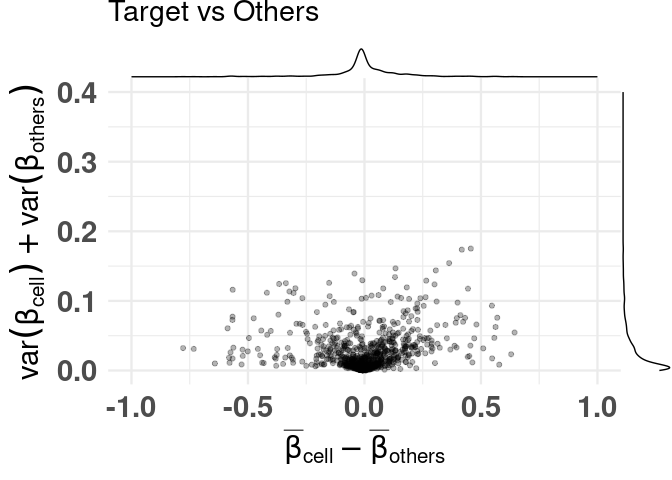
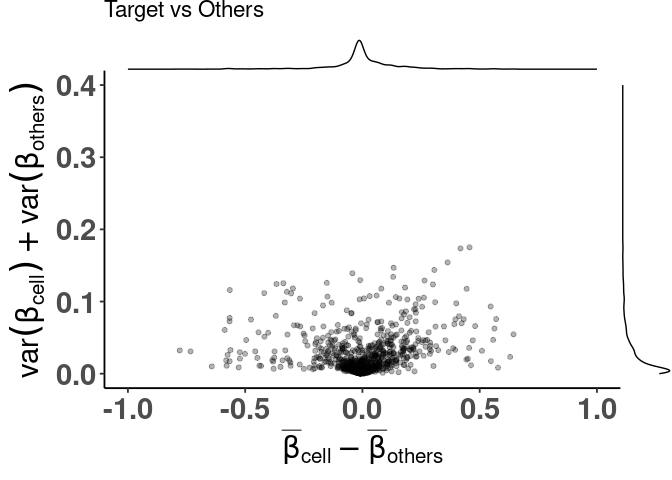
cran prerelease

diff --git a/README.md b/README.md
@@ -8,7 +8,7 @@
 CimpleG, an R package to find (small) CpG signatures.
 
 [![R-CMD-check](https://github.com/CostaLab/CimpleG/actions/workflows/R-CMD-check.yaml/badge.svg)](https://github.com/CostaLab/CimpleG/actions/workflows/R-CMD-check.yaml)
-[![](https://img.shields.io/badge/devel%20version-0.0.5.9035-green.svg)](https://github.com/CostaLab/CimpleG)
+[![](https://img.shields.io/badge/devel%20version-0.0.5.9036-green.svg)](https://github.com/CostaLab/CimpleG)
 [![](https://img.shields.io/badge/doi-10.1186/s13059--023--03000--0-blue.svg)](https://doi.org/10.1186/s13059-023-03000-0)
 
 ## Installation
@@ -218,10 +218,10 @@ cimpleg_hyper <- CimpleG(
     "fibroblasts"
   )
 )
-#> Training for target 'neurons' with 'CimpleG' has finished.: 0.269 sec elapsed
-#> Training for target 'glia' with 'CimpleG' has finished.: 0.287 sec elapsed
-#> Training for target 'blood_cells' with 'CimpleG' has finished.: 0.265 sec elapsed
-#> Training for target 'fibroblasts' with 'CimpleG' has finished.: 0.252 sec elapsed
+#> Training for target 'neurons' with 'CimpleG' has finished.: 0.265 sec elapsed
+#> Training for target 'glia' with 'CimpleG' has finished.: 0.282 sec elapsed
+#> Training for target 'blood_cells' with 'CimpleG' has finished.: 0.266 sec elapsed
+#> Training for target 'fibroblasts' with 'CimpleG' has finished.: 0.254 sec elapsed
 
 deconv_hyper <- run_deconvolution(
   cpg_obj = cimpleg_hyper,
@@ -244,10 +244,10 @@ cimpleg_3sigs <- CimpleG(
     "fibroblasts"
   )
 )
-#> Training for target 'neurons' with 'CimpleG' has finished.: 0.388 sec elapsed
-#> Training for target 'glia' with 'CimpleG' has finished.: 0.323 sec elapsed
-#> Training for target 'blood_cells' with 'CimpleG' has finished.: 0.33 sec elapsed
-#> Training for target 'fibroblasts' with 'CimpleG' has finished.: 0.378 sec elapsed
+#> Training for target 'neurons' with 'CimpleG' has finished.: 0.376 sec elapsed
+#> Training for target 'glia' with 'CimpleG' has finished.: 0.316 sec elapsed
+#> Training for target 'blood_cells' with 'CimpleG' has finished.: 0.31 sec elapsed
+#> Training for target 'fibroblasts' with 'CimpleG' has finished.: 0.361 sec elapsed
 
 deconv_3sigs <- run_deconvolution(
   cpg_obj = cimpleg_3sigs,
